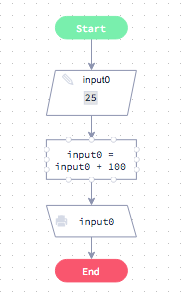
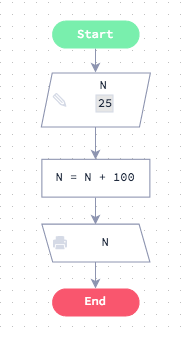
elliott: updated content for named inputs

diff --git a/.guides/content/The--Input--block-a77d.md b/.guides/content/The--Input--block-a77d.md
@@ -5,7 +5,8 @@ An Input block should be used for challenges that tell you they will be passing 
 - For each value you expect to receive, use a single Input block.
 - You can see the input values in the variable list. This is explained in the 'Console & Variables' section.
 - You can enter test data into each Input block by double-clicking.
-- Each Input block gets an automatically assigned variable name, `input0`, `input1`, `input2` etc.
+- Each Input block gets an automatically assigned variable name, `inputName1`, `inputName2`, `inputName3` etc.
+- You can rename each block however you want by double-clicking the name.
 
 ## Test data
 Before you run your challenge, you will want some test data to test your chart with. You can enter your test data by double-clicking on the Input block and then entering your test data.
@@ -17,7 +18,7 @@ Here is an example challenge.
 
 > We pass in a number, N, and we want you to add 100 to N and then output the result.
 
-In this case, you would create one Input block to receive the value. This will be assigned to a Flode variable called `input0`.
+In this case, you would create one Input block to receive the value. This will be assigned to a Flode variable called `inputName1` (by default), or to a variable called `N`, for example, if you changed the input block's name.
 
 Here is how you would represent this in Flode (we are also outputting the result).
 
@@ -28,12 +29,12 @@ Here's another example that requires 2 inputs.
 
 > We will pass a person's name and their age. You should output a single string that says 'Hello [person's name], you are [age]'.
 
-If you look at the chart below, you can see how this chart expects 2 inputs. The first input gets the variable name `input0` and the second one `input1`. 
+If you look at the chart below, you can see how this chart expects 2 inputs. The first input gets the variable name `name` and the second one `age`.  Notice that it doesn't matter what the names of the inputs are, but their order is important.  If a challenge expects you to have one input for name first, and then the age, you must connect the name one first and the age one second.
 
 ![](.guides/img/input-exp2.png)
 
 ## Example 3
-The final example (we will explain what an array is in a later Unit) shows how you would process 2 array input. The first is an array of numbers, the second an array of strings.
+The final example (we will explain what an array is in a later Unit) shows how you would process 2 array inputs. The first is an array of numbers, the second an array of strings.
 
 ![](.guides/img/input-exp3.png)
 

diff --git a/.guides/content/Executing---Debugging-b347.md b/.guides/content/Executing---Debugging-b347.md
@@ -9,7 +9,7 @@ Flode lets you run your chart as a program. There are 3 buttons for controlling 
 ## Console and Variables
 When you enter Run or Step modes, you will be shown the Console and Variables windows at the bottom of the screen. These, together with Step mode especially, are very useful for exactly following the behavior of your chart at your own speed.
 
-To hide (and show) this window, press the Console button.
+To hide (and show) this window, press the Console button.  You can resize the console and variables by dragging the separator up or down.
 
 ![](.guides/img/console.png)
 
